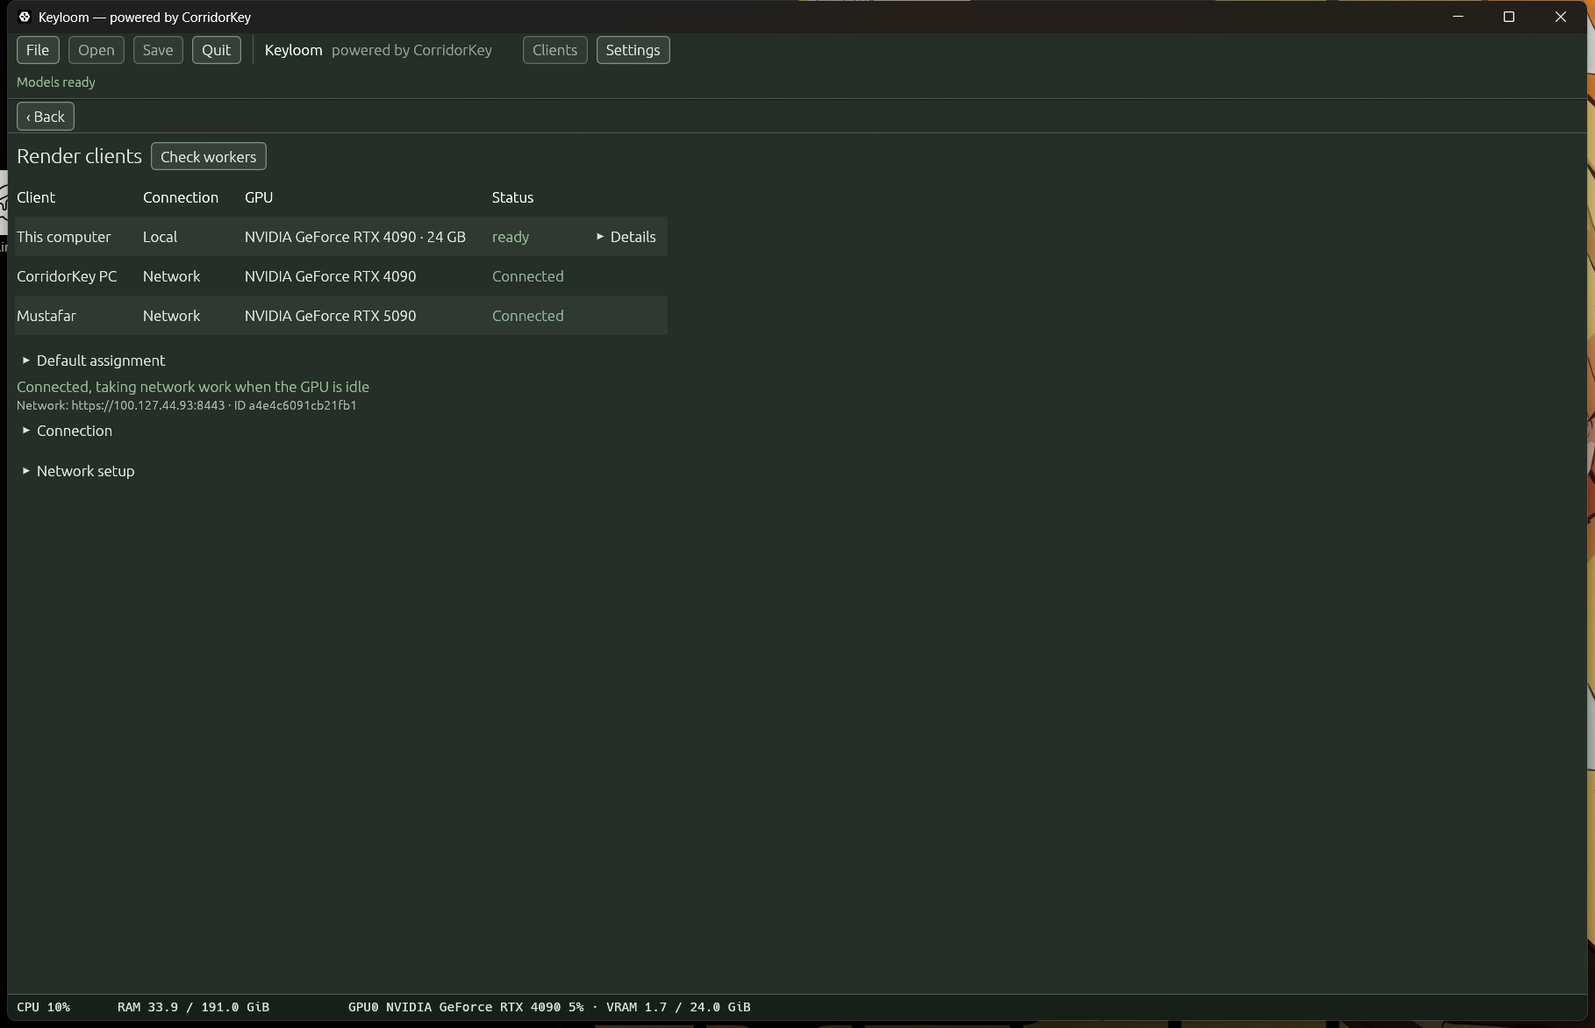
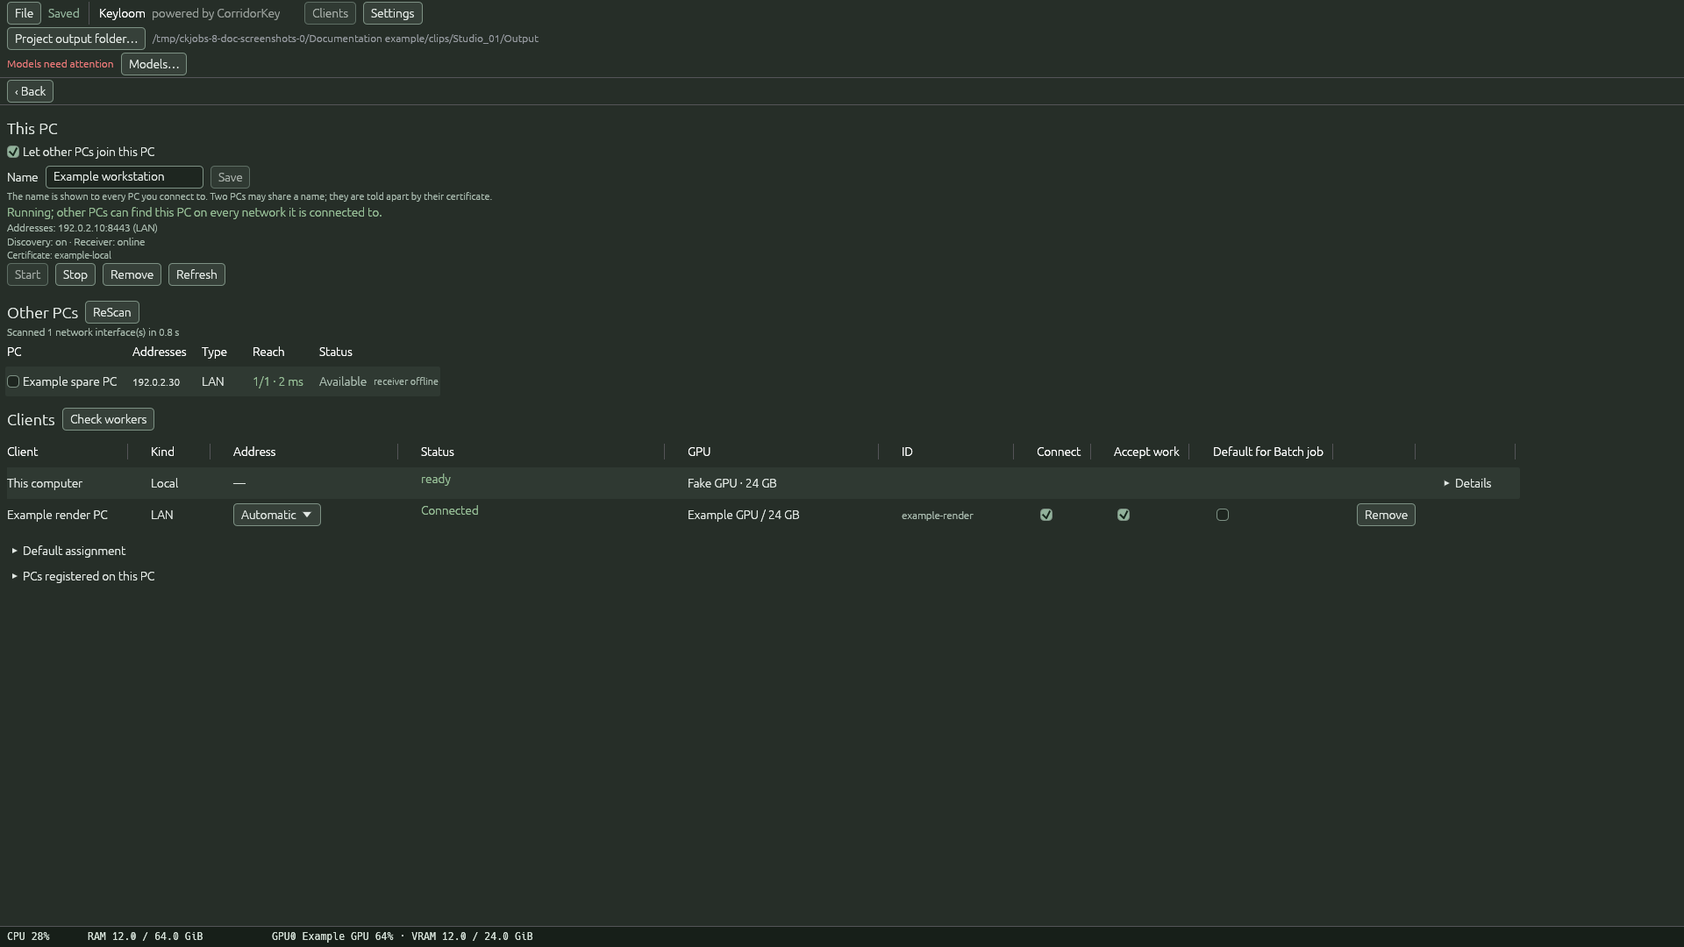
docs: refresh Clients and queue guides and screenshots

diff --git a/docs/network-rendering.md b/docs/network-rendering.md
@@ -6,11 +6,11 @@ Every installation hosts its own network service, can submit work, and can recei
 
 **This PC** (top of **Clients**) shows the PC name, the addresses the service answers on (every LAN, Tailscale and ZeroTier interface at once), whether it is running, and four buttons: **Start**, **Stop**, **Remove** (click twice) and **Refresh**. **Save** next to the name is the only thing that changes the global PC name; it is sent to every connected PC.
 
-**Other PCs** lists the Keyloom PCs found on the network. Keyloom scans once when Clients is first opened and again only when you press **ReScan** (there is an elapsed timer and **Cancel**; a scan is cut off after 35 s). Each row shows the name, all of the PC's addresses, the network type (LAN, Tailscale, ZeroTier), reachability, and status. Tick the checkbox to use that PC; untick it to stop using it (saved files, attempts and jobs are kept). A PC saved earlier but not found in the last scan stays in the list as *not found*. Rows are told apart by certificate fingerprint (hover for the full value), never by name, so two PCs may have the same name.
+**Other PCs** lists discovered PCs you have not joined yet. Keyloom scans once when Clients is first opened and again only when you press **ReScan** (there is an elapsed timer and **Cancel**; a scan is cut off after 35 s). Each row shows the name, addresses, network type (LAN, Tailscale, ZeroTier), reachability and join status. Tick an available PC to join it. Once joined, it moves to the **Clients** table below; it is not duplicated in the discovery list. PCs are identified by certificate, never by name, so two PCs may have the same name.
 
 ## 1. Hosting happens automatically
 
-The first time Keyloom starts it installs this PC's per-user service (a `systemd --user` unit on Linux, a per-user logon task on Windows, with an HKCU Run entry as fallback) and joins this PC to its own network with **Accept work when GPU idle** on. The service starts at sign-in, needs no administrator rights, and runs separately from the Keyloom window. It only coordinates the machine list and queue; it does not render. Rendering is done by that PC's Keyloom client, which must be open or running in [background mode](user-guide.md#background-running). The **Receiver** line therefore reports the service coordinator only: *offline* means the app is not receiving, even if the service is up.
+The first time Keyloom starts it installs this PC's per-user service (a `systemd --user` unit on Linux, a per-user logon task on Windows, with an HKCU Run entry as fallback) and joins this PC to its own network with **Accept work** on. The service starts at sign-in, needs no administrator rights, and runs separately from the Keyloom window. It only coordinates the machine list and queue; it does not render. Rendering is done by that PC's Keyloom client, which must be open or running in [background mode](user-guide.md#background-running). The **Receiver** line therefore reports the service coordinator only: *offline* means the app is not receiving, even if the service is up.
 
 - **Stop** stops the service and Keyloom does not restart it during that run. It returns with **Start** or the next OS sign-in.
 - **Remove** removes the service and remembers that you did; Keyloom does not install it again until you press **Start**. Its database keeps the network identity, so starting again changes nothing for other PCs.
@@ -18,19 +18,32 @@ The first time Keyloom starts it installs this PC's per-user service (a `systemd
 
 The first run may show an OS firewall prompt: allow it on your trusted/private network only. On Linux Keyloom does not open the firewall for you.
 
-![Clients and network setup](screenshots/native/13-pairing.png)
+![Clients page with service controls, discovery and the unified client table](screenshots/native/12-clients.png)
+
+*Current UI, captured in an isolated session with simulated PCs, addresses and hardware. This is a documentation example, not a live network or performance measurement.*
 
 ## 2. Use other PCs
 
-Tick a PC in **Other PCs**. If its owner allows joining without an invitation, Keyloom connects to it using the certificate fingerprint the scan showed; a changed certificate is refused. A PC that requires an invitation shows *Needs invitation* (see below). Addresses are refreshed on every scan, so a PC that moves between LAN and Tailscale keeps working without re-joining. Connections created before this version keep working and keep offering every member PC; new ones offer only the PC you ticked.
+Tick an available PC in **Other PCs**. Its owner must enable **Let other PCs join this PC**. Keyloom connects using the certificate fingerprint the scan showed; a changed certificate is refused. Addresses are refreshed on each scan, so moving between LAN and Tailscale does not require re-joining. New connections offer the PC you selected; older connections may still offer every member of their network.
 
-Under **Connection details (advanced)** each saved connection keeps its own **Connect**, **Accept work when GPU idle**, **Default for Batch** and **Remove** controls. **Default for Batch** chooses the preferred network for automatic placement. Assigning a particular PC keeps that network and PC as the destination. Keyloom accepts work from one network at a time so separate hosts cannot reserve the same GPU concurrently. **Remove** is unavailable while that connection has unfinished work or an unresolved attempt.
+The **Clients** table puts **This computer** and joined network PCs together. It shows the client name, connection kind, address selection, status, reported GPU and network ID. Drag a column header's right edge to resize it; scroll horizontally if necessary.
 
-## 3. Use an invitation instead (optional)
+| Control | What it does |
+|---|---|
+| **Check workers** | Starts/probes local workers so their GPU and capabilities can be reported. **Details** shows model identity and a **Recheck** control when idle. |
+| **Address** | **Automatic** chooses the connection address; select a listed address to prefer LAN, Tailscale or another available route. |
+| **Connect** | Enables or disables this connection without deleting saved files, attempts or jobs. |
+| **Accept work** | On a network PC's row, allows **Automatic** to send shots to that PC. On this computer's own connection, allows this PC to receive work from other PCs. |
+| **Default for Batch job** | Chooses the preferred network for batch submissions that do not specify a PC. It does not pin every Automatic shot to that PC. |
+| **Remove** | Removes a network connection; unavailable while unfinished work or an unresolved attempt would be orphaned. |
 
-Tick **Use invitation** under **This PC**. Other PCs can then join only with an invitation file: choose **Save invitation to**, press **Create invitation**, and give that same file to each PC. On each of those PCs tick **Use invitation**, pick the file under **Import invitation** and press **Join with invitation**. Leave the box off and any PC that can reach this one on your LAN, Tailscale or ZeroTier network may join by address. The change applies to the running service within a second and does not interrupt jobs; services that already had a policy keep it until you change this box.
+Expand **Default assignment** to choose the session's default placement: **Automatic** or a particular available client. Each shot can still have its own assignment. Keyloom accepts work from one network at a time so separate hosts cannot reserve the same GPU concurrently.
 
-The invitation points to the same network and includes its certificate identity. It is reusable for seven days; keep it private while it is valid. Previously created one-use invitations keep their original rule.
+## 3. Control who can join this PC
+
+Under **This PC**, **Let other PCs join this PC** controls new address-based joins. Turn it off to refuse new joins; it does not disconnect PCs that already joined or interrupt their jobs. Turn it on only on a trusted network. The current Clients page has no invitation-file creation or import controls.
+
+Expand **PCs registered on this PC** to inspect existing logins, when they joined, when they were last seen and whether they are online or in use. **Refresh** reloads the list. **Retire** asks for confirmation and revokes a selected login; that PC must join again before using this PC. This PC's own login and logins in use cannot be retired. **Retire all unused** selects only offline, unused logins other than this PC's own.
 
 ## 4. Map shared storage on each PC
 
@@ -53,33 +66,54 @@ The mappings must cover both project source and output folders. If they are on d
 
 On the Batch page:
 
-1. Tick clips and use **Assign selected to → Apply to N**, or choose the PC directly on each clip card.
-2. Choose a workflow preset and press **Key selected N clips…**.
-3. Review the range, stages, outputs and **Render client** for each shot.
-4. Leave **Run on** as **Each shot's assigned client**, or choose a network PC for this entire batch.
-5. Press **Queue N clips**.
+1. Tick clips and use **Assign N selected to → Apply to N**, or choose the destination directly on each clip card. **All** selects every clip.
+2. Choose a workflow preset (or current settings) and press **Key selected N clips…**.
+3. Keyloom checks the shots and queues them directly when no decisions are needed. Otherwise, **Review batch** lists the affected shots: choose **OK** to accept a proposed action or **Skip** to leave a shot out, then **Queue N clips**.
 
-![Batch confirmation](screenshots/native/14-batch-confirm.png)
+**Automatic** waits for a suitable free PC. **This computer** or a named PC fixes the destination. A shot's own In/Out, input colour and hint prompts are retained. Each whole shot runs on one receiving PC through its Hint, Key and Deliver stages; a shot is not split across PCs. Network work writes new results. Resume and Replace stay local.
 
-A shot's own In/Out, input colour and hint prompts are retained. Each whole shot runs on one receiving PC through its reviewed Hint, Key and Deliver stages; a shot is not split across PCs. Network work writes new results. Resume and Replace stay local.
+The destination checks models, shared paths, free output paths and the frame contract before accepting a job. Source-only clips are prepared on the receiving PC. A PC refuses a second attempt while it still owns one, even if the link drops.
 
 ## 6. Watch the Batch queue
 
-![Queue with machine meters and stages](screenshots/native/15-batch-progress.png)
+The Batch board's **Queue** has two tabs: **Machines** for work assigned to PCs, and **Waiting (N)** for Automatic shots that have not been assigned yet. **Clients** remains the place for availability and setup.
 
-The queue groups work by PC and shows its CPU, RAM, GPU and VRAM bars alongside stage progress. Monitor and cancel work here; **Clients** is for availability and setup. The example above is from the earlier real two-PC run, reused without repeating a render.
+### Machines
 
-Cancelling is cooperative and keeps frames already written. An offline PC keeps its assignment. When the host is unavailable, new network work waits; local work can continue. A job already running remains owned by its receiver and is not reassigned to another PC.
+![Machines tab with computer meters and ordered pipeline stages](screenshots/native/15-batch-progress.png)
+
+*Isolated documentation example: one simulated pipeline is running while three shots wait for a free PC. Hardware readings are fixture values, not measured performance.*
+
+Each PC has a collapsible section with CPU, RAM, GPU and VRAM bars. Unavailable statistics are shown as unavailable, not zero. The current shot shows its ordered **Pre-matte**, **Hint**, **Keying** and **Export** stages as applicable. A stage marked **Waiting** is waiting for its dependency in that assigned pipeline; it is not an unassigned shot in the Waiting tab. Expand **Details** for local job diagnostics and recovery controls.
+
+Collapse a PC to see its current shot and overall status on the header. Finished, failed and cancelled runs move into its collapsed **Earlier (N)** log. **Clear finished** clears finished entries and logs without hiding running work or deleting rendered output. History for removed PCs remains under **History** until cleared.
+
+Cancelling running work is cooperative and keeps frames already written. A job already running remains owned by its receiver and is not reassigned while it may still be writing. When **Send again** is available for a submission that has never been attempted, it returns the shot to the end of Automatic's waiting list; an uncertain submission instead stays under reconciliation.
+
+### Waiting list
+
+![Waiting tab with three Automatic shots and Pause, Resume and Cancel controls](screenshots/native/16-batch-waiting.png)
+
+*Isolated example: Studio_03 is paused; the other shots can be assigned when a suitable PC becomes free.*
+
+**Automatic** keeps confirmed shots in one ordered waiting list rather than splitting the batch between PCs in advance. Each free PC takes one eligible shot; when it finishes, it can take the next. Network candidates must be online with both **Connect** and **Accept work** enabled. Automatic requires fresh, known GPU readings with both GPU utilization and VRAM use **below 50%**; a busy PC or unknown/stale readings are not treated as free.
+
+- **Why:** explains why shots are still waiting.
+- **Pause** holds that shot in the waiting list without assigning a PC. Other eligible shots can continue.
+- **Resume** makes a paused shot eligible again; it does not pause or resume a running renderer.
+- **Cancel** removes that waiting shot; **Cancel all** removes all waiting shots, including paused ones, without cancelling work already assigned to PCs.
+- If an Automatic run fails, its shot returns to the end of the list and waits for another suitable PC. It will not retry a PC on which it already failed in this session. If every suitable PC has failed, the shot stays waiting rather than being silently dropped.
+
+A shot assigned explicitly to a PC is not load-balanced in advance by Automatic. An offline destination keeps its assignment; local work can continue if a network host is unavailable.
 
 ## Troubleshooting
 
 | Symptom | Check |
 |---|---|
 | Service will not start | Read the UI error: address/port in use, unavailable user service manager, or permissions. Do not start a second host on the same port. |
-| Cannot join / *Needs invitation* | The other PC's service must be running, reachable through its firewall, and have **Use invitation** off; otherwise import an invitation. ReScan if its addresses changed. |
-| Invitation rejected | Check expiry. Older invitations may be single-use. Create a new reusable invitation from the UI. |
-| Different or incomplete machine list | Check that every PC joined the same host/network, rather than creating separate networks. |
-| PC visible but not receiving | Enable receiving work, keep its client running, and confirm its GPU is idle and models are ready. |
+| Cannot join / *Join not allowed* | The other PC's service must be running, reachable through its firewall, and have **Let other PCs join this PC** enabled. ReScan if its addresses changed. |
+| Different or incomplete machine list | Check the joined connections in **Clients**. Each PC hosts its own service; new connections offer the PC you selected, not necessarily every member of its network. |
+| PC visible but Automatic does not use it | Check **Connect** and **Accept work** on its Clients row, keep its app running, and check the Queue's **Waiting** tab for the reason. GPU and VRAM readings must be known, fresh and below 50%. |
 | Shared files unavailable | Open the share as the desktop user and test the mapping in Keyloom. |
 | PC missing from the list | ReScan. Check that Keyloom is running there and the PCs share a network (LAN, Tailscale or ZeroTier). Do not delete a service folder: that would create a different network and orphan every joined PC. |
 
@@ -87,8 +121,8 @@ Pairing credentials and the service database stay on local disk, outside project
 
 ## Limits
 
-- Every PC must run Keyloom 2.4 or newer to be found; earlier versions have no discovery and must be updated (or joined with an invitation file).
+- Every PC must run Keyloom 2.4 or newer to be found; earlier versions have no discovery and must be updated.
 - The OS firewall must allow the Keyloom service (TCP 8443-8452 and UDP 44554); Keyloom never opens ports itself.
-- Discovery uses LAN broadcast plus Tailscale's peer list and known addresses. Networks that block broadcast or Tailscale ACLs that block the ports hide PCs from the list; join those with an invitation.
+- Discovery uses LAN broadcast plus Tailscale's peer list and known addresses. Networks that block broadcast or Tailscale ACLs that block the ports can hide PCs from the list; correct reachability and ReScan. The current UI has no manual-address or invitation-file fallback.
 - The background service is separate from the Keyloom window: **Stop** keeps it stopped until **Start** or the next sign-in.
-- If the host's identity was revoked, Keyloom reports "identity revoked" and leaves your state untouched. There is no automatic re-issue: restore the host database or recover the identity manually; a new invitation alone does not restore it.
+- If the host's identity was revoked, Keyloom reports "identity revoked" and leaves your state untouched. There is no automatic re-issue: restore the host database or recover the identity manually; joining again alone does not restore it.

diff --git a/docs/user-guide.md b/docs/user-guide.md
@@ -176,23 +176,56 @@ Each enabled output (FG, Matte, Comp, Processed) has its own card.
 On the batch board:
 
 1. Tick the clips.
-2. Choose a **Preset** (or **Current settings (no preset)**).
-3. Press **Key selected N clips…**.
+2. Choose a **Preset** (or **Current settings (no preset)**) when presets are available.
+3. Choose **Automatic** or a particular PC using each clip's assignment menu. To change several at once, use **Assign N selected to** and **Apply to N**; **All** selects every clip.
+4. Press **Key selected N clips…**. Keyloom checks the shots and queues them directly when no decisions are needed.
 
-![Batch confirmation](screenshots/native/14-batch-confirm.png)
+If a decision is needed, **Review batch** lists the affected clips. Existing results offer a new version rather than overwriting them: choose **OK** to accept the proposed action or **Skip** to leave a shot out, then **Queue N clips**. Blocked clips show the reason and cannot be accepted until it is fixed. Where a preset conflicts with a shot's own settings, **Use preset values** takes the preset instead.
 
-**Review batch** shows, per clip, the frame range, a **new result** with a **queue** checkbox (existing results offer **skip**, **write as vNNN**, **resume** or **replace**), the steps that run first (for example *first: GVM > Key*), the export products and the folder they go to.
+Each shot keeps its own In/Out, input colour and hint prompts. SAM and Chroma pre-mattes must already cover the clip's frames; otherwise the shot is blocked. GVM and BiRefNet generate theirs automatically.
 
-- Each shot keeps its **own** In/Out, input colour and hint prompts. A shot that has its own overrides shows **keeps this shot's own: …**; press **Use preset values** to take the preset instead.
-- SAM and Chroma pre-mattes must already cover the clip's frames; otherwise the clip is blocked with an instruction. GVM and BiRefNet generate theirs automatically.
-- **Render client** (per shot) and **Run on** (whole batch) choose the computer; see [Network rendering](network-rendering.md).
-- **Queue N clips** starts the work.
+### Clients and assignment
 
-![Batch progress](screenshots/native/15-batch-progress.png)
+Open **Clients** in the top bar to manage PCs, not to monitor renders.
 
-Example from the earlier real two-PC run.
+![Clients page with discovery and the unified client table](screenshots/native/12-clients.png)
 
-In the **Queue** panel each clip has its own section with ordered rows: **Pre-matte, Hint, Keying, Export**, each with a progress bar (for example *45% · 11/24*), *Waiting* or *Running*, and a **Cancel** beside live stages. Videos share the Export row. **Details** keeps warnings and recovery options. CPU, RAM, GPU and VRAM bars show how busy each computer is. Cancelling is cooperative: the worker stops at a safe point and frames already written are kept.
+*Isolated documentation example with simulated PCs, addresses and hardware.*
+
+- **This PC** shows service controls, **Let other PCs join this PC**, and the name other PCs see.
+- **Other PCs** shows newly discovered PCs. Tick one to join it; it then moves into the **Clients** table.
+- The **Clients** table combines this computer and joined PCs, with their addresses, status and reported GPUs. **Connect** enables a connection. **Accept work** allows Automatic to send to a network PC; on this computer's own connection it enables receiving from other PCs.
+- **Check workers** probes local workers. **Default assignment** sets the session's placement; individual clips can override it.
+- **Default for Batch job** selects a preferred network for submissions without a specific PC, not a fixed destination for every Automatic shot.
+
+See [Network rendering](network-rendering.md) for setup, address selection, access controls and shared-path mapping.
+
+### Queue: Machines
+
+![Queue Machines tab with computer meters and pipeline stages](screenshots/native/15-batch-progress.png)
+
+*Isolated example: one simulated pipeline is running, with three shots still waiting for a PC. Hardware readings are example values, not measured performance.*
+
+The **Queue** panel groups assigned work by computer. In **Machines**, expand a PC to see CPU, RAM, GPU and VRAM meters and its current shots. Collapse it to keep the current shot and overall status in the header.
+
+Each pipeline shows its applicable stages in order: **Pre-matte**, **Hint**, **Keying**, **Export**, with progress and cancellation controls. **Waiting** on a stage means its earlier dependency has not finished; it is different from an unassigned shot in the Waiting tab. Multiple video outputs share an Export row. **Details** holds local warnings and recovery options.
+
+Finished, failed and cancelled runs go into **Earlier (N)** under the PC. **Clear finished** removes finished entries and logs, not running work or rendered files. History for removed PCs remains under **History** until cleared. Cancelling running work is cooperative: the worker stops at a safe point and keeps frames already written.
+
+### Queue: Waiting list
+
+![Queue Waiting tab showing ordered shots, including a paused shot](screenshots/native/16-batch-waiting.png)
+
+*Isolated example: Studio_03 is paused; Studio_02 and Studio_04 remain eligible.*
+
+**Waiting (N)** lists confirmed **Automatic** shots that do not have a PC yet. Each free PC takes one eligible shot, then takes another when it finishes; the batch is not divided between PCs in advance. The **Why:** line explains why work is still waiting. Network PCs need **Connect** and **Accept work** enabled; Automatic requires fresh GPU readings with both GPU utilization and VRAM usage below 50%.
+
+- **Pause** keeps a shot in the list but prevents assignment. Other eligible shots can proceed.
+- **Resume** makes it eligible again. These controls do not pause or resume an already-running job.
+- **Cancel** removes one waiting shot. **Cancel all** removes every waiting shot, including paused shots, without cancelling work already assigned.
+- A failed Automatic shot returns to the end of the list for another suitable PC. It does not retry a PC where it already failed in this session, and stays waiting if none remains suitable.
+
+An explicitly assigned shot keeps its chosen destination. Running network jobs are not reassigned while their receiver may still be writing. See [queue details](network-rendering.md#6-watch-the-batch-queue) for network recovery.
 
 ## 10. Settings
 
